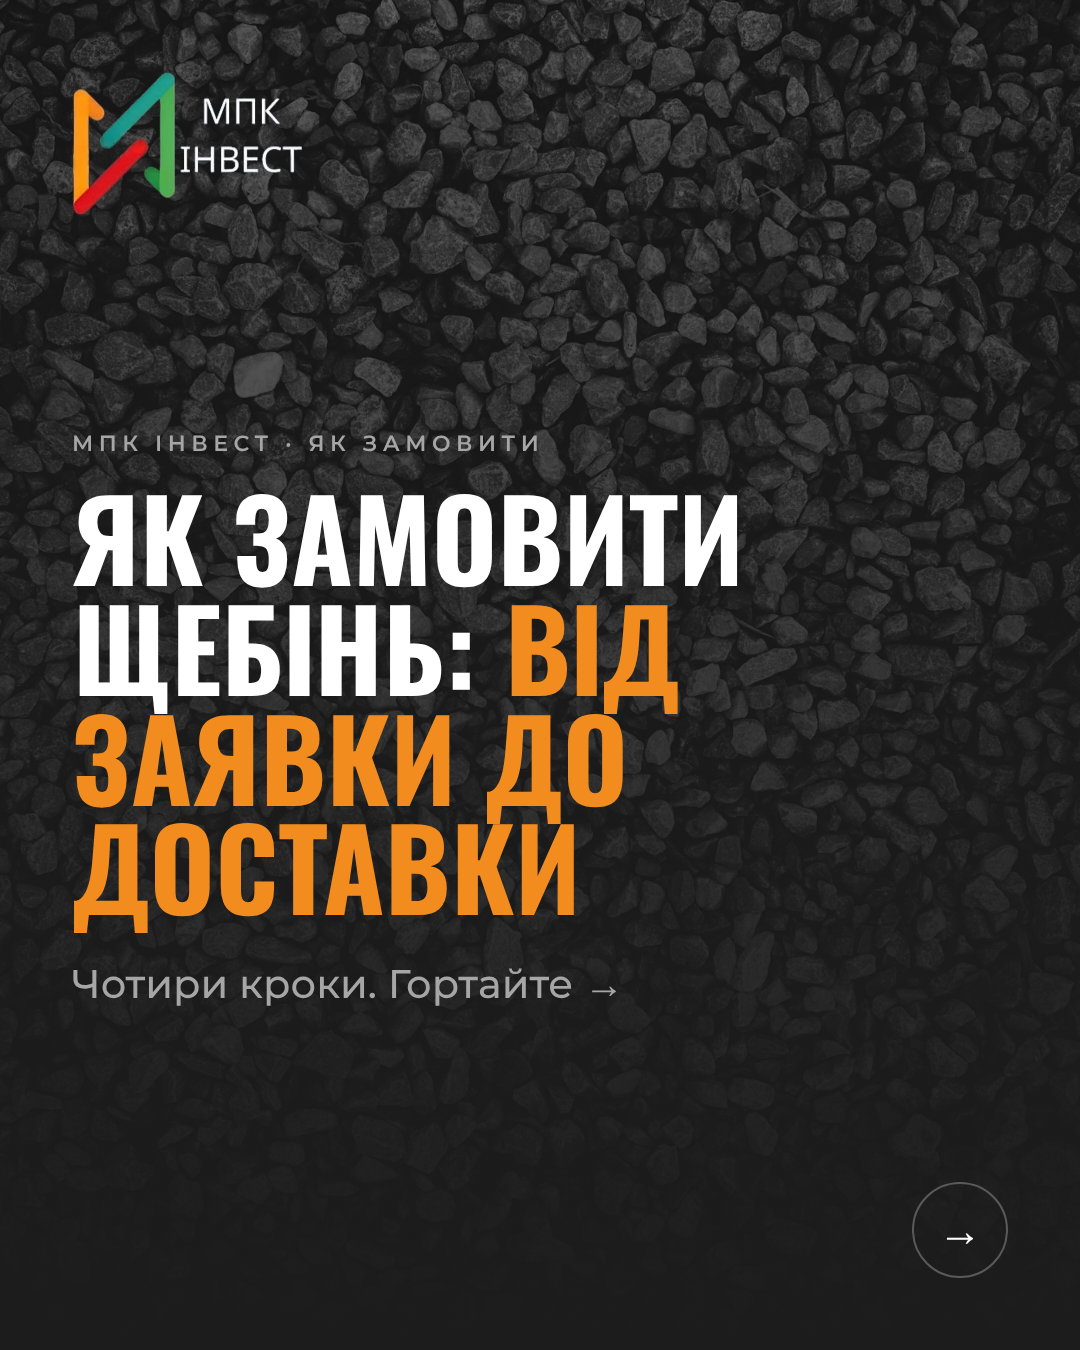
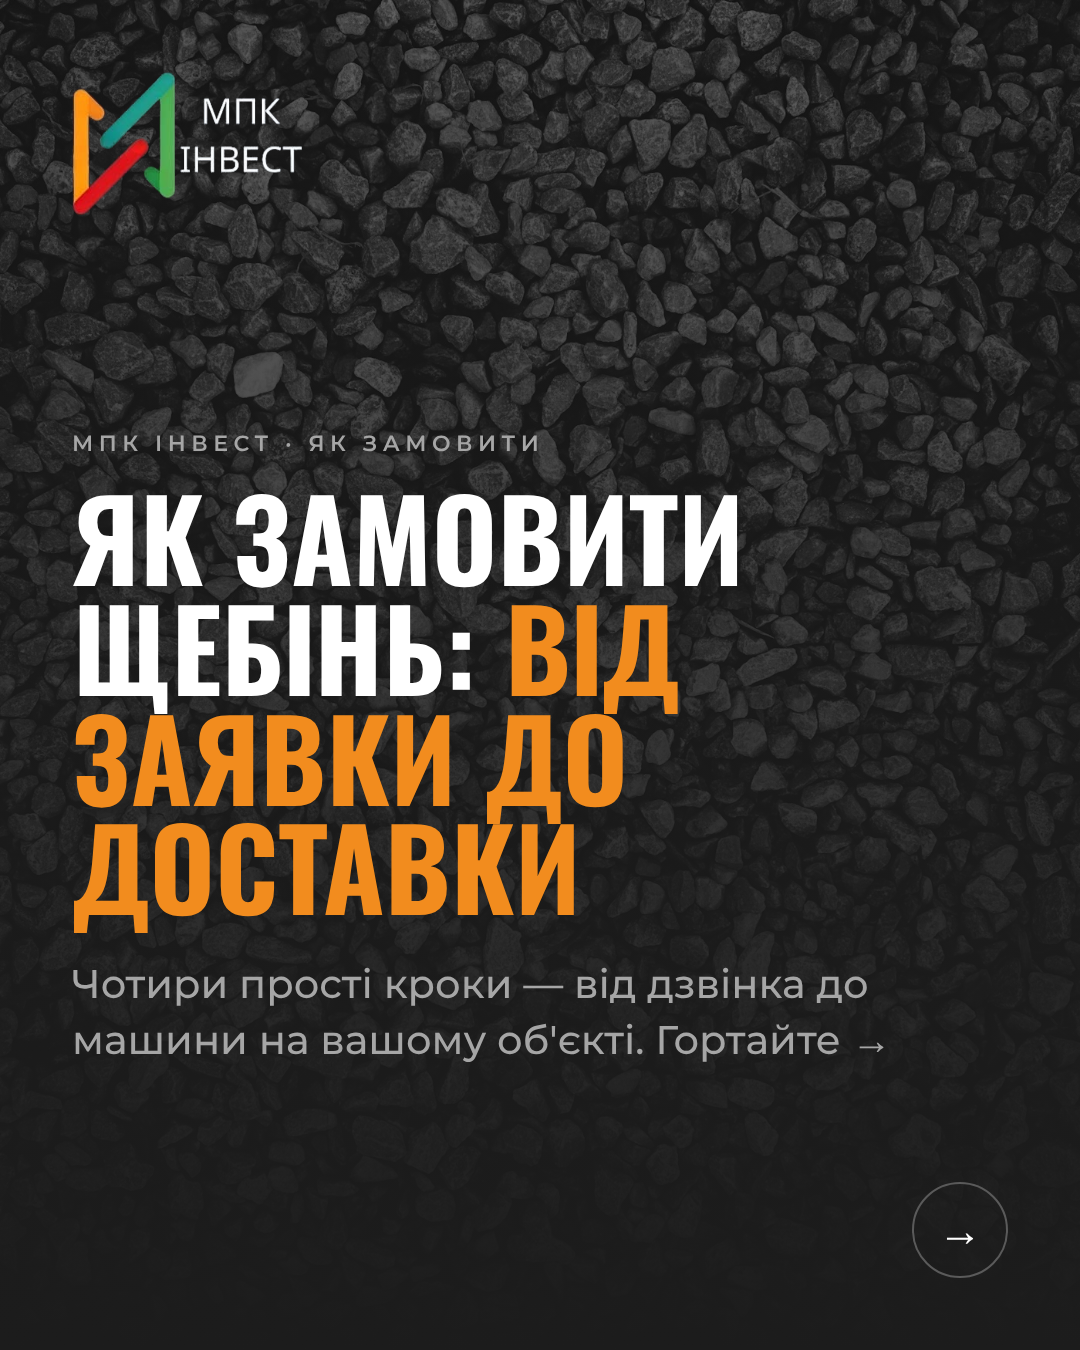
mpk-invest: carousel 5 expanded slide text (after editor fixes)
Claude-Session: https://claude.ai/code/session_01AWhP1rcQ4RM4eLbmxttza6

Changed region(s): [[0.0611, 0.7156, 0.7944, 0.7778]]

diff --git a/klienty/mpk-invest/vizual/karuseli-tyzhden-2-ishodnik/build.py b/klienty/mpk-invest/vizual/karuseli-tyzhden-2-ishodnik/build.py
@@ -10,12 +10,12 @@ CAR={
  ('step','КРОК 3','Запас','Додайте запас на ущільнення і втрати. Розмір запасу визначайте за проєктом або технологією робіт.',None),
  ('step','КРОК 4','Фракція','Перевірте, що фракція підходить під задачу.','ЩЕБІНЬ 5–10 … 40–70 мм|ЩПС 0–40, 0–70 мм|ПІСОК'),
  ('cta',None,'Замовте <span class="o">доставку</span>','Продаємо в тоннах. Об\'єми: від мішка до самоскида.',None)],
-'k5':[('cover','МПК ІНВЕСТ · ЯК ЗАМОВИТИ','Як замовити щебінь: <span class="o">від заявки до доставки</span>','Чотири кроки. Гортайте →',None),
- ('step','01','Заявка','Телефоном або на сайті mpc-invest.com.ua.',None),
- ('step','02','Фракція й об\'єм','Об\'єми: від мішка до самоскида.',None),
- ('step','03','Доставка','Привеземо вчасно, щоб майстри не чекали.',None),
- ('step','04','Гарантія точної ваги','',None),
- ('cta',None,'Замовте <span class="o">доставку</span>','',None)],
+'k5':[('cover','МПК ІНВЕСТ · ЯК ЗАМОВИТИ','Як замовити щебінь: <span class="o">від заявки до доставки</span>','Чотири прості кроки — від дзвінка до машини на вашому об\'єкті. Гортайте →',None),
+ ('step','01','Заявка','Зателефонуйте або залиште заявку на сайті mpc-invest.com.ua. Скажіть, що потрібно і куди везти.','050 010 66 25|050 444 45 21'),
+ ('step','02','Фракція й об\'єм','Назвіть матеріал і фракцію. Кількість рахуємо в тоннах. Об\'єми: від мішка до самоскида.','ЩЕБІНЬ ГРАНІТНИЙ 5–10 … 40–70 мм|ЩПС 0–40, 0–70 мм|ПІСОК'),
+ ('step','03','Доставка','Привеземо вчасно, щоб майстри не чекали. Працюємо в Чернігові та області. Адресу назвіть під час заявки.',None),
+ ('step','04','Точна вага','Щебінь продаємо в тоннах.','ГАРАНТІЯ ТОЧНОЇ ВАГИ'),
+ ('cta',None,'Замовте <span class="o">доставку</span>','Щебінь, ЩПС і пісок. Чернігів та область.',None)],
 'k6':[('cover','МПК ІНВЕСТ · ЧЕК-ЛИСТ ПРОРАБА','Як прийняти щебінь <span class="o">на об\'єкті?</span>','4 перевірки при розвантаженні. Гортайте →',None),
  ('step','01','Фракція','Звірте фракцію в документі із замовленою. Подивіться, що розмір зерна відповідає замовленню.',None),
  ('step','02','Чистота й домішки','Огляньте матеріал у кузові: чи немає пилу, глини, землі та сторонніх включень.',None),

diff --git a/klienty/mpk-invest/teksty/2026-11-tyzhden-2-karuseli.md b/klienty/mpk-invest/teksty/2026-11-tyzhden-2-karuseli.md
@@ -70,31 +70,31 @@
 
 Основная версия выше ждёт ответов клиента. Готовая к публикации версия без неизвестных шагов ниже («К5-публікація»).
 
-### К5-публікація (готова к публикации, 6 слайдов)
-Призыв один: «Замовте доставку» (слайд 6). Слайд 2 описывает шаг, не призывает.
+### К5-публікація (6 слайдов) — версия 23.11 с расширенным текстом (запрос директора: больше понятного текста на слайдах)
+Призыв один: «Замовте доставку» (слайд 6).
 
-| № | Крупный текст | Мелкий текст |
+| № | Крупный текст | Мелкий текст / плашки |
 |---|---|---|
-| 1 | ЯК ЗАМОВИТИ ЩЕБІНЬ: ВІД ЗАЯВКИ ДО ДОСТАВКИ | Чотири кроки. Гортайте → |
-| 2 | 1. ЗАЯВКА | Заявка: телефоном або на сайті mpc-invest.com.ua. |
-| 3 | 2. ФРАКЦІЯ Й ОБ'ЄМ | Фракція й об'єм: від мішка до самоскида. |
-| 4 | 3. ДОСТАВКА | Привеземо вчасно, щоб майстри не чекали. |
-| 5 | 4. ГАРАНТІЯ ТОЧНОЇ ВАГИ | Гарантія точної ваги. |
-| 6 | ЗАМОВТЕ ДОСТАВКУ | 050 010 66 25 · 050 444 45 21 · mpc-invest.com.ua |
+| 1 | ЯК ЗАМОВИТИ ЩЕБІНЬ: ВІД ЗАЯВКИ ДО ДОСТАВКИ | Чотири прості кроки — від дзвінка до машини на вашому об'єкті. Гортайте → |
+| 2 | 01 ЗАЯВКА | Плашки: 050 010 66 25; 050 444 45 21. Зателефонуйте або залиште заявку на сайті mpc-invest.com.ua. Скажіть, що потрібно і куди везти. |
+| 3 | 02 ФРАКЦІЯ Й ОБ'ЄМ | Плашки: щебінь гранітний 5–10 … 40–70 мм; ЩПС 0–40, 0–70 мм; пісок. Назвіть матеріал і фракцію. Кількість рахуємо в тоннах. Об'єми: від мішка до самоскида. |
+| 4 | 03 ДОСТАВКА | Привеземо вчасно, щоб майстри не чекали. Працюємо в Чернігові та області. Адресу назвіть під час заявки. |
+| 5 | 04 ТОЧНА ВАГА | Плашка «ГАРАНТІЯ ТОЧНОЇ ВАГИ». Щебінь продаємо в тоннах. |
+| 6 | ЗАМОВТЕ ДОСТАВКУ | Щебінь, ЩПС і пісок. Чернігів та область. 050 010 66 25 · 050 444 45 21 · mpc-invest.com.ua |
+
+Источники: контакты и регион — брендбук; фракции — прайс; продажа в тоннах — директор 23.11; «Привеземо вчасно…», «Гарантія точної ваги», «від мішка до самоскида» — шапка профиля.
 
 **Подпись (К5-публікація):**
 Як замовити щебінь: від заявки до доставки. Чотири кроки.
 
-1. Заявка: телефоном або на сайті.
-2. Фракція й об'єм: від мішка до самоскида.
-3. Доставка: привеземо вчасно, щоб майстри не чекали.
+1. Заявка: зателефонуйте або залиште заявку на сайті. Скажіть, що потрібно і куди везти.
+2. Фракція й об'єм: щебінь гранітний 5–10 … 40–70 мм, ЩПС, пісок. Кількість рахуємо в тоннах. Об'єми: від мішка до самоскида.
+3. Доставка: привеземо вчасно, щоб майстри не чекали. Чернігів та область.
 4. Гарантія точної ваги.
 
 Замовте доставку: 050 010 66 25, 050 444 45 21 або на mpc-invest.com.ua
 
 #щебінь #щебіньчернігів #замовитищебінь #доставкащебеню #будівництвочернігів #гранітнийщебінь
-
-Первая строка подписи: «Як замовити щебінь: від заявки до доставки. Чотири кроки.» (механика Обещание; Боль из основной версии остаётся запасной).
 
 ### Подпись
 Від заявки до розвантаження: як проходить замовлення щебеню.
@@ -110,7 +110,7 @@
 
 #щебінь #щебіньчернігів #замовитищебінь #доставкащебеню #будівництвочернігів #гранітнийщебінь
 
-### Два варианта первой строки подписи
+### Два варианта первой строки подписи (для основной версии с розвантаженням)
 1. **Боль:** «Заявка є, а що далі? Показуємо шлях замовлення щебеню від дзвінка до розвантаження.» **Рекомендую:** называет вопрос заказчика, который не знает процесса, и не повторяет «Вопрос» из понедельника.
 2. **Обещание:** «Як замовити щебінь у Чернігові: шлях від заявки до розвантаження.»
 
